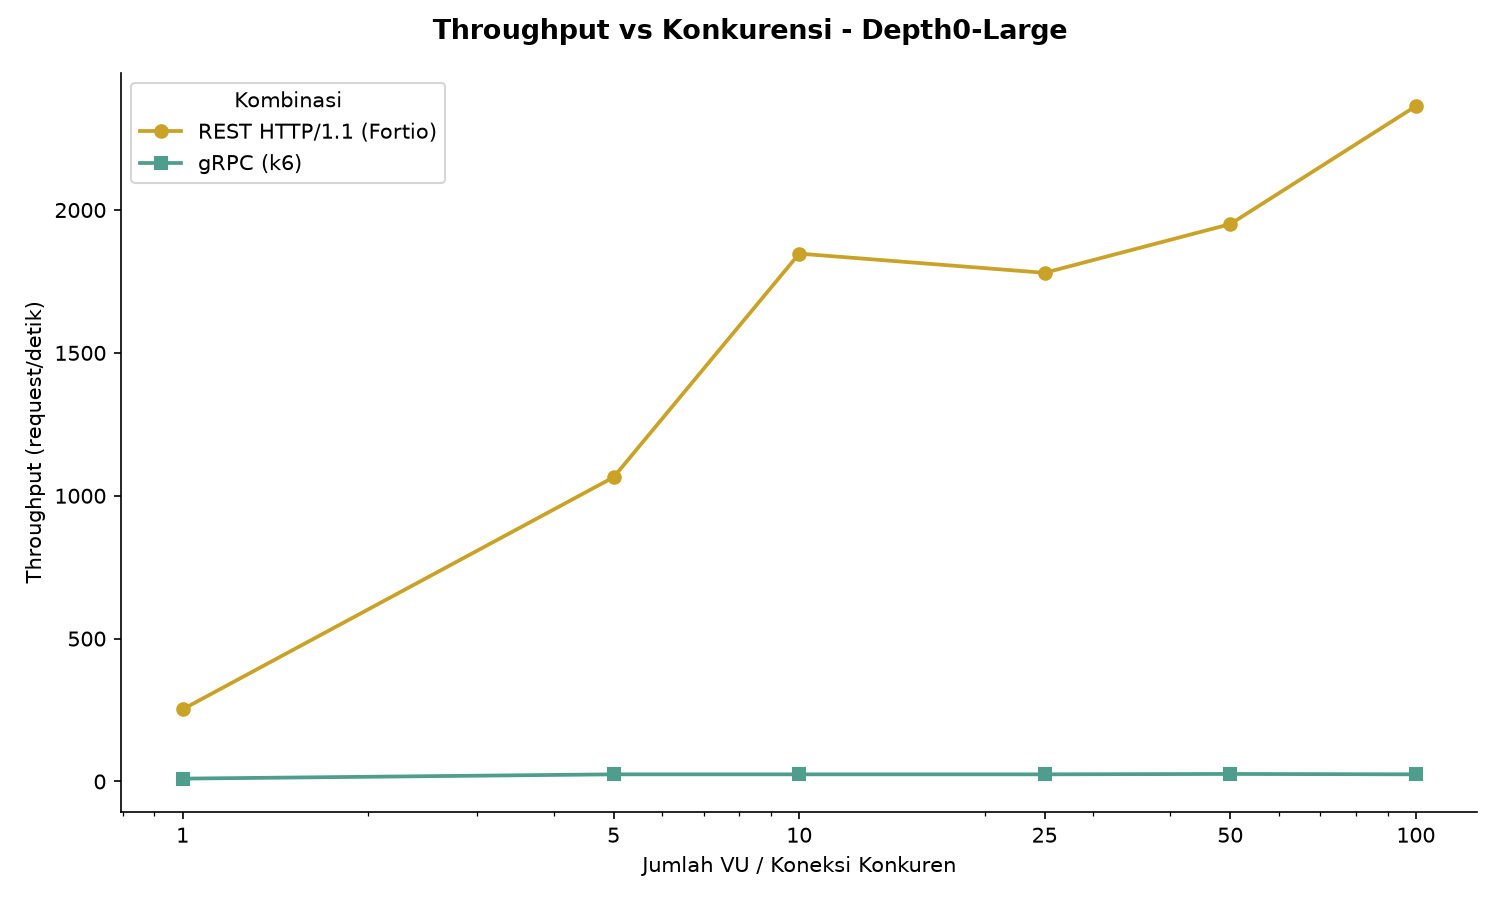
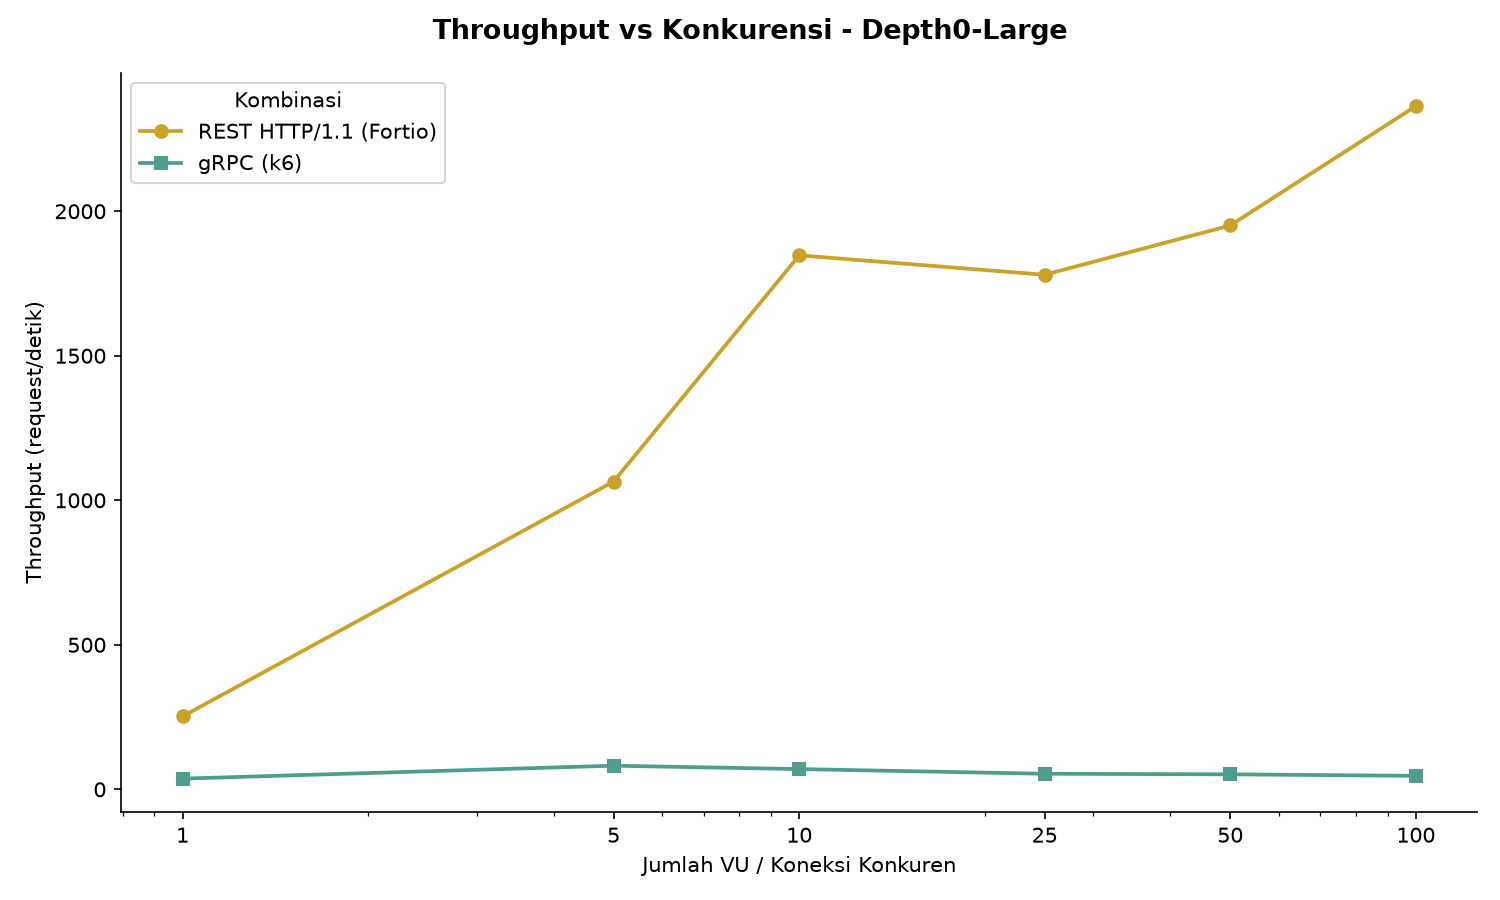
fix: compute gRPC throughput from concurrency/latency, not raw timestamps
- k6 CSV timestamp column only has whole-second precision, too coarse
  for these short-duration runs, was producing a flat/wrong ~25 req/s
  reading across most concurrency levels
- switched to vu / mean_latency_seconds, consistent with the
  per-vu-iterations closed-model executor used in these tests

diff --git a/tooling-validation/analysis/concurrency_sweep_visualize.py b/tooling-validation/analysis/concurrency_sweep_visualize.py
@@ -41,19 +41,22 @@ def load_fortio_point(c: int) -> dict:
 
 def load_k6_point(vu: int) -> dict:
     """Load one k6 CSV result (gRPC) and compute mean response time (ms) and throughput (req/s).
-    - Throughput is derived from raw whole-second timestamps, which can be imprecise at low VU
-      counts where the whole test finishes in well under a second (notably vu=1) - treat that
-      specific point with some caution."""
+    - Throughput is derived as vu / mean_latency_seconds, NOT from raw CSV timestamps.
+      k6's CSV timestamp column only has whole-second precision, which is far too coarse for
+      these short-duration runs (many complete in well under a few seconds) - using it directly
+      previously produced a flat, wrong ~25 req/s reading across most concurrency levels.
+    - This formula assumes the executor is per-vu-iterations (closed model: each VU runs its
+      iterations strictly sequentially, no artificial pacing), which matches how these tests
+      were actually configured - so one VU's own throughput is 1/mean_latency_seconds, and the
+      combined throughput across vu identical parallel VUs is vu times that."""
     path = K6_DIR / f"grpc-depth0-large-vu{vu}.csv"
     df = pd.read_csv(path, low_memory=False)
     dur = df[df["metric_name"] == "grpc_req_duration"]["metric_value"]
-    iters = df[df["metric_name"] == "iterations"]
-    total_iterations = iters["metric_value"].sum()
-    duration_s = max(iters["timestamp"].max() - iters["timestamp"].min(), 1)
+    mean_ms = dur.mean()
     return {
         "concurrency": vu,
-        "mean_ms": dur.mean(),
-        "throughput": total_iterations / duration_s,
+        "mean_ms": mean_ms,
+        "throughput": vu / (mean_ms / 1000),
     }
 
 
